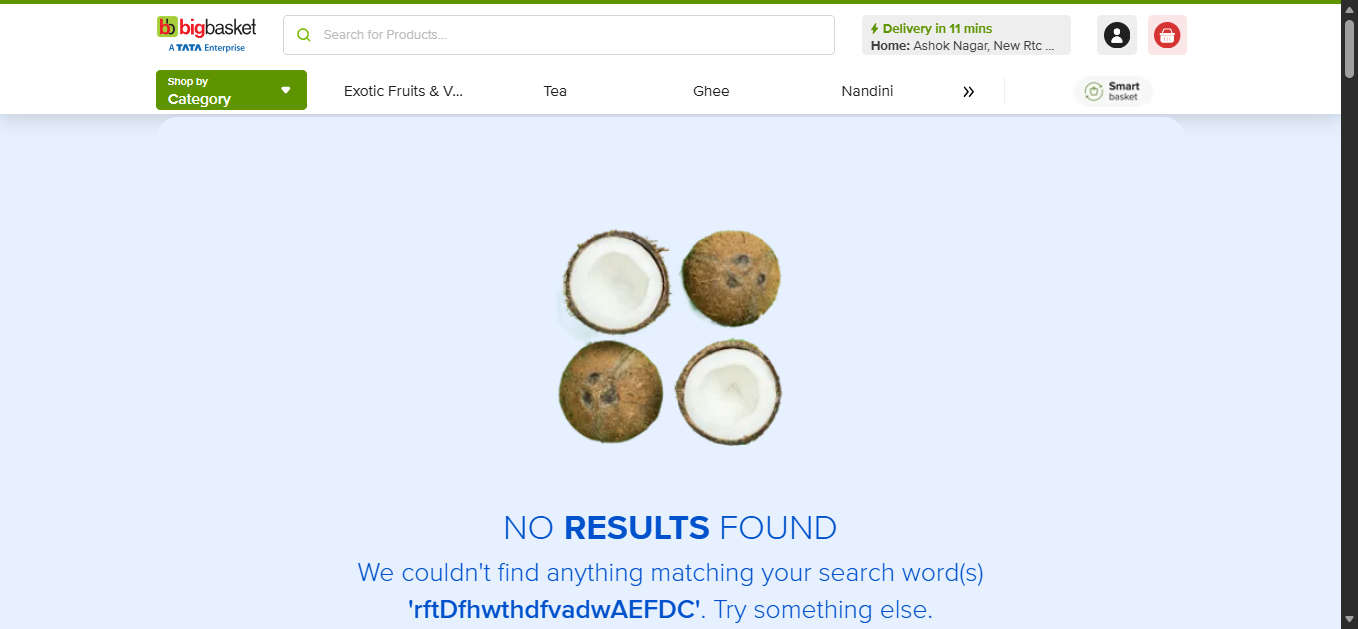
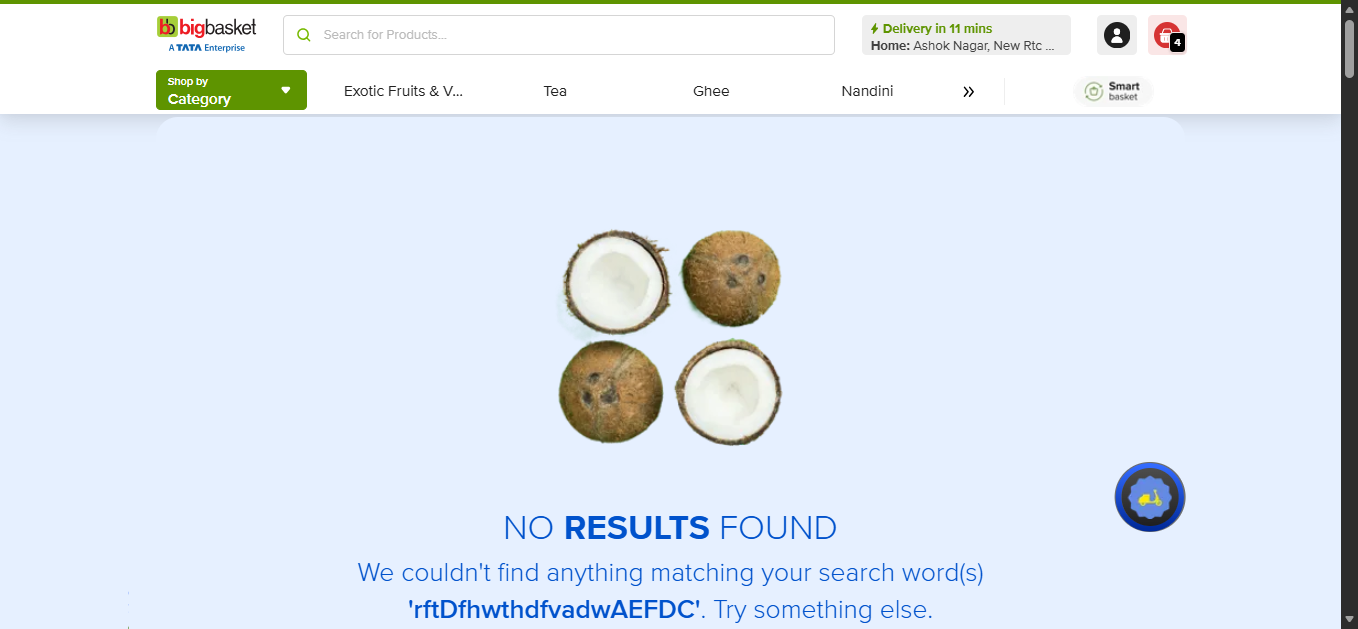
Initial commit

Changed region(s): [[0.8041, 0.725, 0.8969, 0.8458], [0.8351, 0.0604, 0.8969, 0.0906]]

diff --git a/bigB/reports/report.html b/bigB/reports/report.html
@@ -328,7 +328,7 @@ div.media {
   </head>
   <body>
     <h1 id="title">report.html</h1>
-    <p>Report generated on 22-May-2026 at 20:33:04 by <a href="https://pypi.python.org/pypi/pytest-html">pytest-html</a>
+    <p>Report generated on 23-May-2026 at 19:38:58 by <a href="https://pypi.python.org/pypi/pytest-html">pytest-html</a>
         v4.2.0</p>
     <div id="environment-header">
       <h2>Environment</h2>
@@ -383,7 +383,7 @@ div.media {
         <h2>Summary</h2>
         <div class="additional-summary prefix">
         </div>
-        <p class="run-count">7 tests took 00:03:29.</p>
+        <p class="run-count">7 tests took 00:03:11.</p>
         <p class="filter">(Un)check the boxes to filter the results.</p>
         <div class="summary__reload">
           <div class="summary__reload__button hidden" onclick="location.reload()">
@@ -431,7 +431,7 @@ div.media {
       </thead>
     </table>
   <footer>
-    <div id="data-container" data-jsonblob="{&#34;environment&#34;: {&#34;Python&#34;: &#34;3.13.6&#34;, &#34;Platform&#34;: &#34;Windows-11-10.0.26200-SP0&#34;, &#34;Packages&#34;: {&#34;pytest&#34;: &#34;9.0.3&#34;, &#34;pluggy&#34;: &#34;1.6.0&#34;}, &#34;Plugins&#34;: {&#34;allure-pytest&#34;: &#34;2.16.0&#34;, &#34;html&#34;: &#34;4.2.0&#34;, &#34;metadata&#34;: &#34;3.1.1&#34;}, &#34;JAVA_HOME&#34;: &#34;C:\\Users\\sahii\\scoop\\apps\\temurin-lts-jdk\\current&#34;}, &#34;tests&#34;: {&#34;tests/test_negative.py::test_negative_invalid_search[rftDfhwthdfvadwAEFDC]&#34;: [{&#34;extras&#34;: [], &#34;result&#34;: &#34;Passed&#34;, &#34;testId&#34;: &#34;tests/test_negative.py::test_negative_invalid_search[rftDfhwthdfvadwAEFDC]&#34;, &#34;duration&#34;: &#34;00:00:41&#34;, &#34;resultsTableRow&#34;: [&#34;&lt;td class=\&#34;col-result\&#34;&gt;Passed&lt;/td&gt;&#34;, &#34;&lt;td class=\&#34;col-testId\&#34;&gt;tests/test_negative.py::test_negative_invalid_search[rftDfhwthdfvadwAEFDC]&lt;/td&gt;&#34;, &#34;&lt;td class=\&#34;col-duration\&#34;&gt;00:00:41&lt;/td&gt;&#34;, &#34;&lt;td class=\&#34;col-links\&#34;&gt;&lt;/td&gt;&#34;], &#34;log&#34;: &#34;------------------------------ Captured log setup ------------------------------\nINFO     AutomationLogger:test_negative.py:28 === Setting up Edge WebDriver ===\nINFO     AutomationLogger:test_negative.py:42 Edge WebDriver initialized with anti-detection flags\nINFO     AutomationLogger:test_negative.py:44 bigB homepage opened\nINFO     AutomationLogger:test_negative.py:56 === LOGIN START ===\nINFO     AutomationLogger:login_page.py:21 Navigating to bigB\nINFO     AutomationLogger:base_page.py:12 Opening URL: https://www.bigbasket.com/\nINFO     AutomationLogger:base_page.py:15 URL opened: https://www.bigbasket.com/\nINFO     AutomationLogger:login_page.py:27 bigB homepage fully loaded\nINFO     AutomationLogger:login_page.py:47 Entering mobile/email: 9030652433\nINFO     AutomationLogger:login_page.py:54 Mobile/email entered successfully\nINFO     AutomationLogger:login_page.py:59 Clicking Continue button\nINFO     AutomationLogger:login_page.py:64 Continue clicked\nINFO     AutomationLogger:login_page.py:72 Waiting up to 30s for OTP page heading\nINFO     AutomationLogger:login_page.py:78 OTP page detected \u2014 enter OTP manually in browser\nINFO     AutomationLogger:login_page.py:92 Waiting up to 120s for Verify &amp;amp; Continue button\nINFO     AutomationLogger:login_page.py:97 Verify &amp;amp; Continue clickable \u2014 clicking\nINFO     AutomationLogger:login_page.py:100 Verify &amp;amp; Continue clicked\nINFO     AutomationLogger:login_page.py:112 Checking for location popup after login\nINFO     AutomationLogger:login_page.py:119 Location popup dismissed \u2014 clicked &amp;#x27;Got it&amp;#x27;\nINFO     AutomationLogger:test_negative.py:66 === LOGIN SUCCESS ===\n\n------------------------------ Captured log call -------------------------------\nINFO     AutomationLogger:test_negative.py:79 === NEGATIVE TEST (invalid search) START | rftDfhwthdfvadwAEFDC ===\nINFO     AutomationLogger:test_negative.py:83 Searched: rftDfhwthdfvadwAEFDC\nINFO     AutomationLogger:test_negative.py:21 Screenshot saved: screenshots\\NEGATIVE_invalid_search_rftDfhwthdfvadwAEFDC.png\n\n&#34;}], &#34;tests/test_negative.py::test_negative_empty_basket_checkout&#34;: [{&#34;extras&#34;: [], &#34;result&#34;: &#34;Passed&#34;, &#34;testId&#34;: &#34;tests/test_negative.py::test_negative_empty_basket_checkout&#34;, &#34;duration&#34;: &#34;00:00:15&#34;, &#34;resultsTableRow&#34;: [&#34;&lt;td class=\&#34;col-result\&#34;&gt;Passed&lt;/td&gt;&#34;, &#34;&lt;td class=\&#34;col-testId\&#34;&gt;tests/test_negative.py::test_negative_empty_basket_checkout&lt;/td&gt;&#34;, &#34;&lt;td class=\&#34;col-duration\&#34;&gt;00:00:15&lt;/td&gt;&#34;, &#34;&lt;td class=\&#34;col-links\&#34;&gt;&lt;/td&gt;&#34;], &#34;log&#34;: &#34;------------------------------ Captured log call -------------------------------\nINFO     AutomationLogger:test_negative.py:100 === NEGATIVE TEST (empty basket) START ===\nINFO     AutomationLogger:test_negative.py:21 Screenshot saved: screenshots\\NEGATIVE_empty_basket.png\nINFO     AutomationLogger:test_negative.py:112 === NEGATIVE TEST PASSED | Empty basket checkout blocked ===\n\n&#34;}], &#34;tests/test_positive.py::TestPositiveBigBasket::test_search_product[Cricket bat]&#34;: [{&#34;extras&#34;: [], &#34;result&#34;: &#34;Passed&#34;, &#34;testId&#34;: &#34;tests/test_positive.py::TestPositiveBigBasket::test_search_product[Cricket bat]&#34;, &#34;duration&#34;: &#34;00:01:05&#34;, &#34;resultsTableRow&#34;: [&#34;&lt;td class=\&#34;col-result\&#34;&gt;Passed&lt;/td&gt;&#34;, &#34;&lt;td class=\&#34;col-testId\&#34;&gt;tests/test_positive.py::TestPositiveBigBasket::test_search_product[Cricket bat]&lt;/td&gt;&#34;, &#34;&lt;td class=\&#34;col-duration\&#34;&gt;00:01:05&lt;/td&gt;&#34;, &#34;&lt;td class=\&#34;col-links\&#34;&gt;&lt;/td&gt;&#34;], &#34;log&#34;: &#34;------------------------------ Captured log setup ------------------------------\nINFO     AutomationLogger:conftest.py:36 === Setting up Edge WebDriver ===\nINFO     AutomationLogger:conftest.py:51 Edge WebDriver initialized with anti-detection flags\nINFO     AutomationLogger:conftest.py:53 bigB homepage opened\nINFO     AutomationLogger:conftest.py:66 === LOGIN START ===\nINFO     AutomationLogger:login_page.py:21 Navigating to bigB\nINFO     AutomationLogger:base_page.py:12 Opening URL: https://www.bigbasket.com/\nINFO     AutomationLogger:base_page.py:15 URL opened: https://www.bigbasket.com/\nINFO     AutomationLogger:login_page.py:27 bigB homepage fully loaded\nINFO     AutomationLogger:conftest.py:70 BigBasket opened\nINFO     AutomationLogger:conftest.py:75 Login clicked\nINFO     AutomationLogger:login_page.py:47 Entering mobile/email: 9030652433\nINFO     AutomationLogger:login_page.py:54 Mobile/email entered successfully\nINFO     AutomationLogger:conftest.py:83 Mobile entered\nINFO     AutomationLogger:login_page.py:59 Clicking Continue button\nINFO     AutomationLogger:login_page.py:64 Continue clicked\nINFO     AutomationLogger:conftest.py:91 Continue clicked\nINFO     AutomationLogger:login_page.py:72 Waiting up to 30s for OTP page heading\nINFO     AutomationLogger:login_page.py:78 OTP page detected \u2014 enter OTP manually in browser\nINFO     AutomationLogger:conftest.py:99 OTP page confirmed \u2014 enter OTP in browser now\nINFO     AutomationLogger:login_page.py:92 Waiting up to 120s for Verify &amp;amp; Continue button\nINFO     AutomationLogger:login_page.py:97 Verify &amp;amp; Continue clickable \u2014 clicking\nINFO     AutomationLogger:login_page.py:100 Verify &amp;amp; Continue clicked\nINFO     AutomationLogger:conftest.py:104 OTP verified\nINFO     AutomationLogger:login_page.py:112 Checking for location popup after login\nINFO     AutomationLogger:login_page.py:119 Location popup dismissed \u2014 clicked &amp;#x27;Got it&amp;#x27;\nINFO     AutomationLogger:conftest.py:111 Location popup handled\nINFO     AutomationLogger:conftest.py:116 Login confirmed \u2014 search box visible\nINFO     AutomationLogger:conftest.py:121 === LOGIN SUCCESS ===\n\n------------------------------ Captured log call -------------------------------\nINFO     AutomationLogger:test_positive.py:24 === SEARCH TEST START | Cricket bat ===\nINFO     AutomationLogger:test_positive.py:28 Searched: Cricket bat\n\n&#34;}], &#34;tests/test_positive.py::TestPositiveBigBasket::test_add_to_basket[Cricket bat]&#34;: [{&#34;extras&#34;: [], &#34;result&#34;: &#34;Passed&#34;, &#34;testId&#34;: &#34;tests/test_positive.py::TestPositiveBigBasket::test_add_to_basket[Cricket bat]&#34;, &#34;duration&#34;: &#34;00:00:01&#34;, &#34;resultsTableRow&#34;: [&#34;&lt;td class=\&#34;col-result\&#34;&gt;Passed&lt;/td&gt;&#34;, &#34;&lt;td class=\&#34;col-testId\&#34;&gt;tests/test_positive.py::TestPositiveBigBasket::test_add_to_basket[Cricket bat]&lt;/td&gt;&#34;, &#34;&lt;td class=\&#34;col-duration\&#34;&gt;00:00:01&lt;/td&gt;&#34;, &#34;&lt;td class=\&#34;col-links\&#34;&gt;&lt;/td&gt;&#34;], &#34;log&#34;: &#34;------------------------------ Captured log call -------------------------------\nINFO     AutomationLogger:test_positive.py:37 === ADD TEST START | Cricket bat ===\nINFO     AutomationLogger:test_positive.py:42 Product added\n\n&#34;}], &#34;tests/test_positive.py::TestPositiveBigBasket::test_open_basket[Cricket bat]&#34;: [{&#34;extras&#34;: [], &#34;result&#34;: &#34;Passed&#34;, &#34;testId&#34;: &#34;tests/test_positive.py::TestPositiveBigBasket::test_open_basket[Cricket bat]&#34;, &#34;duration&#34;: &#34;00:00:04&#34;, &#34;resultsTableRow&#34;: [&#34;&lt;td class=\&#34;col-result\&#34;&gt;Passed&lt;/td&gt;&#34;, &#34;&lt;td class=\&#34;col-testId\&#34;&gt;tests/test_positive.py::TestPositiveBigBasket::test_open_basket[Cricket bat]&lt;/td&gt;&#34;, &#34;&lt;td class=\&#34;col-duration\&#34;&gt;00:00:04&lt;/td&gt;&#34;, &#34;&lt;td class=\&#34;col-links\&#34;&gt;&lt;/td&gt;&#34;], &#34;log&#34;: &#34;------------------------------ Captured log call -------------------------------\nINFO     AutomationLogger:test_positive.py:51 === OPEN BASKET TEST START | Cricket bat ===\nINFO     AutomationLogger:test_positive.py:57 Basket opened for Cricket bat\n\n&#34;}], &#34;tests/test_positive.py::TestPositiveBigBasket::test_checkout_button_visible[Cricket bat]&#34;: [{&#34;extras&#34;: [], &#34;result&#34;: &#34;Passed&#34;, &#34;testId&#34;: &#34;tests/test_positive.py::TestPositiveBigBasket::test_checkout_button_visible[Cricket bat]&#34;, &#34;duration&#34;: &#34;00:00:07&#34;, &#34;resultsTableRow&#34;: [&#34;&lt;td class=\&#34;col-result\&#34;&gt;Passed&lt;/td&gt;&#34;, &#34;&lt;td class=\&#34;col-testId\&#34;&gt;tests/test_positive.py::TestPositiveBigBasket::test_checkout_button_visible[Cricket bat]&lt;/td&gt;&#34;, &#34;&lt;td class=\&#34;col-duration\&#34;&gt;00:00:07&lt;/td&gt;&#34;, &#34;&lt;td class=\&#34;col-links\&#34;&gt;&lt;/td&gt;&#34;], &#34;log&#34;: &#34;------------------------------ Captured log call -------------------------------\nINFO     AutomationLogger:test_positive.py:66 === CHECKOUT TEST START | Cricket bat ===\nINFO     AutomationLogger:test_positive.py:69 === POSITIVE TEST PASSED | Cricket bat added to basket ===\n\n---------------------------- Captured log teardown -----------------------------\nINFO     AutomationLogger:conftest.py:55 Quitting WebDriver\nINFO     AutomationLogger:conftest.py:58 === WebDriver session closed ===&#34;}], &#34;tests/test_search_and_checkout.py::test_search_and_checkout[9030652433-Amul Butter]&#34;: [{&#34;extras&#34;: [], &#34;result&#34;: &#34;Passed&#34;, &#34;testId&#34;: &#34;tests/test_search_and_checkout.py::test_search_and_checkout[9030652433-Amul Butter]&#34;, &#34;duration&#34;: &#34;00:01:15&#34;, &#34;resultsTableRow&#34;: [&#34;&lt;td class=\&#34;col-result\&#34;&gt;Passed&lt;/td&gt;&#34;, &#34;&lt;td class=\&#34;col-testId\&#34;&gt;tests/test_search_and_checkout.py::test_search_and_checkout[9030652433-Amul Butter]&lt;/td&gt;&#34;, &#34;&lt;td class=\&#34;col-duration\&#34;&gt;00:01:15&lt;/td&gt;&#34;, &#34;&lt;td class=\&#34;col-links\&#34;&gt;&lt;/td&gt;&#34;], &#34;log&#34;: &#34;------------------------------ Captured log setup ------------------------------\nINFO     AutomationLogger:conftest.py:36 === Setting up Edge WebDriver ===\nINFO     AutomationLogger:conftest.py:51 Edge WebDriver initialized with anti-detection flags\nINFO     AutomationLogger:conftest.py:53 bigB homepage opened\n\n------------------------------ Captured log call -------------------------------\nINFO     AutomationLogger:test_search_and_checkout.py:27 === Test START | mobile: 9030652433 | product: Amul Butter ===\nINFO     AutomationLogger:login_page.py:21 Navigating to bigB\nINFO     AutomationLogger:base_page.py:12 Opening URL: https://www.bigbasket.com/\nINFO     AutomationLogger:base_page.py:15 URL opened: https://www.bigbasket.com/\nINFO     AutomationLogger:login_page.py:27 bigB homepage fully loaded\nINFO     AutomationLogger:login_page.py:47 Entering mobile/email: 9030652433\nINFO     AutomationLogger:login_page.py:54 Mobile/email entered successfully\nINFO     AutomationLogger:login_page.py:59 Clicking Continue button\nINFO     AutomationLogger:login_page.py:64 Continue clicked\nINFO     AutomationLogger:login_page.py:72 Waiting up to 30s for OTP page heading\nINFO     AutomationLogger:login_page.py:78 OTP page detected \u2014 enter OTP manually in browser\nINFO     AutomationLogger:login_page.py:92 Waiting up to 120s for Verify &amp;amp; Continue button\nINFO     AutomationLogger:login_page.py:97 Verify &amp;amp; Continue clickable \u2014 clicking\nINFO     AutomationLogger:login_page.py:100 Verify &amp;amp; Continue clicked\nINFO     AutomationLogger:login_page.py:112 Checking for location popup after login\nINFO     AutomationLogger:login_page.py:119 Location popup dismissed \u2014 clicked &amp;#x27;Got it&amp;#x27;\nINFO     AutomationLogger:test_search_and_checkout.py:87 === Test PASSED | mobile: 9030652433 | product: Amul Butter ===\n\n---------------------------- Captured log teardown -----------------------------\nINFO     AutomationLogger:conftest.py:55 Quitting WebDriver\nINFO     AutomationLogger:conftest.py:58 === WebDriver session closed ===\nINFO     AutomationLogger:test_negative.py:46 Quitting WebDriver\nINFO     AutomationLogger:test_negative.py:49 === WebDriver session closed ===&#34;}]}, &#34;renderCollapsed&#34;: [&#34;passed&#34;], &#34;initialSort&#34;: &#34;result&#34;, &#34;title&#34;: &#34;report.html&#34;}"></div>
+    <div id="data-container" data-jsonblob="{&#34;environment&#34;: {&#34;Python&#34;: &#34;3.13.6&#34;, &#34;Platform&#34;: &#34;Windows-11-10.0.26200-SP0&#34;, &#34;Packages&#34;: {&#34;pytest&#34;: &#34;9.0.3&#34;, &#34;pluggy&#34;: &#34;1.6.0&#34;}, &#34;Plugins&#34;: {&#34;allure-pytest&#34;: &#34;2.16.0&#34;, &#34;html&#34;: &#34;4.2.0&#34;, &#34;metadata&#34;: &#34;3.1.1&#34;}, &#34;JAVA_HOME&#34;: &#34;C:\\Users\\sahii\\scoop\\apps\\temurin-lts-jdk\\current&#34;}, &#34;tests&#34;: {&#34;tests/test_negative.py::test_negative_invalid_search[rftDfhwthdfvadwAEFDC]&#34;: [{&#34;extras&#34;: [], &#34;result&#34;: &#34;Passed&#34;, &#34;testId&#34;: &#34;tests/test_negative.py::test_negative_invalid_search[rftDfhwthdfvadwAEFDC]&#34;, &#34;duration&#34;: &#34;00:00:52&#34;, &#34;resultsTableRow&#34;: [&#34;&lt;td class=\&#34;col-result\&#34;&gt;Passed&lt;/td&gt;&#34;, &#34;&lt;td class=\&#34;col-testId\&#34;&gt;tests/test_negative.py::test_negative_invalid_search[rftDfhwthdfvadwAEFDC]&lt;/td&gt;&#34;, &#34;&lt;td class=\&#34;col-duration\&#34;&gt;00:00:52&lt;/td&gt;&#34;, &#34;&lt;td class=\&#34;col-links\&#34;&gt;&lt;/td&gt;&#34;], &#34;log&#34;: &#34;------------------------------ Captured log setup ------------------------------\nINFO     AutomationLogger:test_negative.py:28 === Setting up Edge WebDriver ===\nINFO     AutomationLogger:test_negative.py:42 Edge WebDriver initialized with anti-detection flags\nINFO     AutomationLogger:test_negative.py:44 bigB homepage opened\nINFO     AutomationLogger:test_negative.py:56 === LOGIN START ===\nINFO     AutomationLogger:login_page.py:21 Navigating to bigB\nINFO     AutomationLogger:base_page.py:12 Opening URL: https://www.bigbasket.com/\nINFO     AutomationLogger:base_page.py:15 URL opened: https://www.bigbasket.com/\nINFO     AutomationLogger:login_page.py:27 bigB homepage fully loaded\nINFO     AutomationLogger:login_page.py:47 Entering mobile/email: 9030652433\nINFO     AutomationLogger:login_page.py:54 Mobile/email entered successfully\nINFO     AutomationLogger:login_page.py:59 Clicking Continue button\nINFO     AutomationLogger:login_page.py:64 Continue clicked\nINFO     AutomationLogger:login_page.py:72 Waiting up to 30s for OTP page heading\nINFO     AutomationLogger:login_page.py:78 OTP page detected \u2014 enter OTP manually in browser\nINFO     AutomationLogger:login_page.py:92 Waiting up to 120s for Verify &amp;amp; Continue button\nINFO     AutomationLogger:login_page.py:97 Verify &amp;amp; Continue clickable \u2014 clicking\nINFO     AutomationLogger:login_page.py:100 Verify &amp;amp; Continue clicked\nINFO     AutomationLogger:login_page.py:112 Checking for location popup after login\nINFO     AutomationLogger:login_page.py:119 Location popup dismissed \u2014 clicked &amp;#x27;Got it&amp;#x27;\nINFO     AutomationLogger:test_negative.py:66 === LOGIN SUCCESS ===\n\n------------------------------ Captured log call -------------------------------\nINFO     AutomationLogger:test_negative.py:79 === NEGATIVE TEST (invalid search) START | rftDfhwthdfvadwAEFDC ===\nINFO     AutomationLogger:test_negative.py:83 Searched: rftDfhwthdfvadwAEFDC\nINFO     AutomationLogger:test_negative.py:21 Screenshot saved: screenshots\\NEGATIVE_invalid_search_rftDfhwthdfvadwAEFDC.png\n\n&#34;}], &#34;tests/test_negative.py::test_negative_empty_basket_checkout&#34;: [{&#34;extras&#34;: [], &#34;result&#34;: &#34;Passed&#34;, &#34;testId&#34;: &#34;tests/test_negative.py::test_negative_empty_basket_checkout&#34;, &#34;duration&#34;: &#34;00:00:14&#34;, &#34;resultsTableRow&#34;: [&#34;&lt;td class=\&#34;col-result\&#34;&gt;Passed&lt;/td&gt;&#34;, &#34;&lt;td class=\&#34;col-testId\&#34;&gt;tests/test_negative.py::test_negative_empty_basket_checkout&lt;/td&gt;&#34;, &#34;&lt;td class=\&#34;col-duration\&#34;&gt;00:00:14&lt;/td&gt;&#34;, &#34;&lt;td class=\&#34;col-links\&#34;&gt;&lt;/td&gt;&#34;], &#34;log&#34;: &#34;------------------------------ Captured log call -------------------------------\nINFO     AutomationLogger:test_negative.py:100 === NEGATIVE TEST (empty basket) START ===\nINFO     AutomationLogger:test_negative.py:21 Screenshot saved: screenshots\\NEGATIVE_empty_basket.png\nINFO     AutomationLogger:test_negative.py:112 === NEGATIVE TEST PASSED | Empty basket checkout blocked ===\n\n&#34;}], &#34;tests/test_positive.py::TestPositiveBigBasket::test_search_product[Cricket bat]&#34;: [{&#34;extras&#34;: [], &#34;result&#34;: &#34;Passed&#34;, &#34;testId&#34;: &#34;tests/test_positive.py::TestPositiveBigBasket::test_search_product[Cricket bat]&#34;, &#34;duration&#34;: &#34;00:00:38&#34;, &#34;resultsTableRow&#34;: [&#34;&lt;td class=\&#34;col-result\&#34;&gt;Passed&lt;/td&gt;&#34;, &#34;&lt;td class=\&#34;col-testId\&#34;&gt;tests/test_positive.py::TestPositiveBigBasket::test_search_product[Cricket bat]&lt;/td&gt;&#34;, &#34;&lt;td class=\&#34;col-duration\&#34;&gt;00:00:38&lt;/td&gt;&#34;, &#34;&lt;td class=\&#34;col-links\&#34;&gt;&lt;/td&gt;&#34;], &#34;log&#34;: &#34;------------------------------ Captured log setup ------------------------------\nINFO     AutomationLogger:conftest.py:36 === Setting up Edge WebDriver ===\nINFO     AutomationLogger:conftest.py:51 Edge WebDriver initialized with anti-detection flags\nINFO     AutomationLogger:conftest.py:53 bigB homepage opened\nINFO     AutomationLogger:conftest.py:66 === LOGIN START ===\nINFO     AutomationLogger:login_page.py:21 Navigating to bigB\nINFO     AutomationLogger:base_page.py:12 Opening URL: https://www.bigbasket.com/\nINFO     AutomationLogger:base_page.py:15 URL opened: https://www.bigbasket.com/\nINFO     AutomationLogger:login_page.py:27 bigB homepage fully loaded\nINFO     AutomationLogger:conftest.py:70 BigBasket opened\nINFO     AutomationLogger:conftest.py:75 Login clicked\nINFO     AutomationLogger:login_page.py:47 Entering mobile/email: 9030652433\nINFO     AutomationLogger:login_page.py:54 Mobile/email entered successfully\nINFO     AutomationLogger:conftest.py:83 Mobile entered\nINFO     AutomationLogger:login_page.py:59 Clicking Continue button\nINFO     AutomationLogger:login_page.py:64 Continue clicked\nINFO     AutomationLogger:conftest.py:91 Continue clicked\nINFO     AutomationLogger:login_page.py:72 Waiting up to 30s for OTP page heading\nINFO     AutomationLogger:login_page.py:78 OTP page detected \u2014 enter OTP manually in browser\nINFO     AutomationLogger:conftest.py:99 OTP page confirmed \u2014 enter OTP in browser now\nINFO     AutomationLogger:login_page.py:92 Waiting up to 120s for Verify &amp;amp; Continue button\nINFO     AutomationLogger:login_page.py:97 Verify &amp;amp; Continue clickable \u2014 clicking\nINFO     AutomationLogger:login_page.py:100 Verify &amp;amp; Continue clicked\nINFO     AutomationLogger:conftest.py:104 OTP verified\nINFO     AutomationLogger:login_page.py:112 Checking for location popup after login\nINFO     AutomationLogger:login_page.py:119 Location popup dismissed \u2014 clicked &amp;#x27;Got it&amp;#x27;\nINFO     AutomationLogger:conftest.py:111 Location popup handled\nINFO     AutomationLogger:conftest.py:116 Login confirmed \u2014 search box visible\nINFO     AutomationLogger:conftest.py:121 === LOGIN SUCCESS ===\n\n------------------------------ Captured log call -------------------------------\nINFO     AutomationLogger:test_positive.py:24 === SEARCH TEST START | Cricket bat ===\nINFO     AutomationLogger:test_positive.py:28 Searched: Cricket bat\n\n&#34;}], &#34;tests/test_positive.py::TestPositiveBigBasket::test_add_to_basket[Cricket bat]&#34;: [{&#34;extras&#34;: [], &#34;result&#34;: &#34;Passed&#34;, &#34;testId&#34;: &#34;tests/test_positive.py::TestPositiveBigBasket::test_add_to_basket[Cricket bat]&#34;, &#34;duration&#34;: &#34;00:00:02&#34;, &#34;resultsTableRow&#34;: [&#34;&lt;td class=\&#34;col-result\&#34;&gt;Passed&lt;/td&gt;&#34;, &#34;&lt;td class=\&#34;col-testId\&#34;&gt;tests/test_positive.py::TestPositiveBigBasket::test_add_to_basket[Cricket bat]&lt;/td&gt;&#34;, &#34;&lt;td class=\&#34;col-duration\&#34;&gt;00:00:02&lt;/td&gt;&#34;, &#34;&lt;td class=\&#34;col-links\&#34;&gt;&lt;/td&gt;&#34;], &#34;log&#34;: &#34;------------------------------ Captured log call -------------------------------\nINFO     AutomationLogger:test_positive.py:37 === ADD TEST START | Cricket bat ===\nINFO     AutomationLogger:test_positive.py:42 Product added\n\n&#34;}], &#34;tests/test_positive.py::TestPositiveBigBasket::test_open_basket[Cricket bat]&#34;: [{&#34;extras&#34;: [], &#34;result&#34;: &#34;Passed&#34;, &#34;testId&#34;: &#34;tests/test_positive.py::TestPositiveBigBasket::test_open_basket[Cricket bat]&#34;, &#34;duration&#34;: &#34;00:00:05&#34;, &#34;resultsTableRow&#34;: [&#34;&lt;td class=\&#34;col-result\&#34;&gt;Passed&lt;/td&gt;&#34;, &#34;&lt;td class=\&#34;col-testId\&#34;&gt;tests/test_positive.py::TestPositiveBigBasket::test_open_basket[Cricket bat]&lt;/td&gt;&#34;, &#34;&lt;td class=\&#34;col-duration\&#34;&gt;00:00:05&lt;/td&gt;&#34;, &#34;&lt;td class=\&#34;col-links\&#34;&gt;&lt;/td&gt;&#34;], &#34;log&#34;: &#34;------------------------------ Captured log call -------------------------------\nINFO     AutomationLogger:test_positive.py:51 === OPEN BASKET TEST START | Cricket bat ===\nINFO     AutomationLogger:test_positive.py:57 Basket opened for Cricket bat\n\n&#34;}], &#34;tests/test_positive.py::TestPositiveBigBasket::test_checkout_button_visible[Cricket bat]&#34;: [{&#34;extras&#34;: [], &#34;result&#34;: &#34;Passed&#34;, &#34;testId&#34;: &#34;tests/test_positive.py::TestPositiveBigBasket::test_checkout_button_visible[Cricket bat]&#34;, &#34;duration&#34;: &#34;00:00:07&#34;, &#34;resultsTableRow&#34;: [&#34;&lt;td class=\&#34;col-result\&#34;&gt;Passed&lt;/td&gt;&#34;, &#34;&lt;td class=\&#34;col-testId\&#34;&gt;tests/test_positive.py::TestPositiveBigBasket::test_checkout_button_visible[Cricket bat]&lt;/td&gt;&#34;, &#34;&lt;td class=\&#34;col-duration\&#34;&gt;00:00:07&lt;/td&gt;&#34;, &#34;&lt;td class=\&#34;col-links\&#34;&gt;&lt;/td&gt;&#34;], &#34;log&#34;: &#34;------------------------------ Captured log call -------------------------------\nINFO     AutomationLogger:test_positive.py:66 === CHECKOUT TEST START | Cricket bat ===\nINFO     AutomationLogger:test_positive.py:69 === POSITIVE TEST PASSED | Cricket bat added to basket ===\n\n---------------------------- Captured log teardown -----------------------------\nINFO     AutomationLogger:conftest.py:55 Quitting WebDriver\nINFO     AutomationLogger:conftest.py:58 === WebDriver session closed ===&#34;}], &#34;tests/test_search_and_checkout.py::test_search_and_checkout[9030652433-Amul Butter]&#34;: [{&#34;extras&#34;: [], &#34;result&#34;: &#34;Passed&#34;, &#34;testId&#34;: &#34;tests/test_search_and_checkout.py::test_search_and_checkout[9030652433-Amul Butter]&#34;, &#34;duration&#34;: &#34;00:01:12&#34;, &#34;resultsTableRow&#34;: [&#34;&lt;td class=\&#34;col-result\&#34;&gt;Passed&lt;/td&gt;&#34;, &#34;&lt;td class=\&#34;col-testId\&#34;&gt;tests/test_search_and_checkout.py::test_search_and_checkout[9030652433-Amul Butter]&lt;/td&gt;&#34;, &#34;&lt;td class=\&#34;col-duration\&#34;&gt;00:01:12&lt;/td&gt;&#34;, &#34;&lt;td class=\&#34;col-links\&#34;&gt;&lt;/td&gt;&#34;], &#34;log&#34;: &#34;------------------------------ Captured log setup ------------------------------\nINFO     AutomationLogger:conftest.py:36 === Setting up Edge WebDriver ===\nINFO     AutomationLogger:conftest.py:51 Edge WebDriver initialized with anti-detection flags\nINFO     AutomationLogger:conftest.py:53 bigB homepage opened\n\n------------------------------ Captured log call -------------------------------\nINFO     AutomationLogger:test_search_and_checkout.py:27 === Test START | mobile: 9030652433 | product: Amul Butter ===\nINFO     AutomationLogger:login_page.py:21 Navigating to bigB\nINFO     AutomationLogger:base_page.py:12 Opening URL: https://www.bigbasket.com/\nINFO     AutomationLogger:base_page.py:15 URL opened: https://www.bigbasket.com/\nINFO     AutomationLogger:login_page.py:27 bigB homepage fully loaded\nINFO     AutomationLogger:login_page.py:47 Entering mobile/email: 9030652433\nINFO     AutomationLogger:login_page.py:54 Mobile/email entered successfully\nINFO     AutomationLogger:login_page.py:59 Clicking Continue button\nINFO     AutomationLogger:login_page.py:64 Continue clicked\nINFO     AutomationLogger:login_page.py:72 Waiting up to 30s for OTP page heading\nINFO     AutomationLogger:login_page.py:78 OTP page detected \u2014 enter OTP manually in browser\nINFO     AutomationLogger:login_page.py:92 Waiting up to 120s for Verify &amp;amp; Continue button\nINFO     AutomationLogger:login_page.py:97 Verify &amp;amp; Continue clickable \u2014 clicking\nINFO     AutomationLogger:login_page.py:100 Verify &amp;amp; Continue clicked\nINFO     AutomationLogger:login_page.py:112 Checking for location popup after login\nINFO     AutomationLogger:login_page.py:119 Location popup dismissed \u2014 clicked &amp;#x27;Got it&amp;#x27;\nINFO     AutomationLogger:test_search_and_checkout.py:87 === Test PASSED | mobile: 9030652433 | product: Amul Butter ===\n\n---------------------------- Captured log teardown -----------------------------\nINFO     AutomationLogger:conftest.py:55 Quitting WebDriver\nINFO     AutomationLogger:conftest.py:58 === WebDriver session closed ===\nINFO     AutomationLogger:test_negative.py:46 Quitting WebDriver\nINFO     AutomationLogger:test_negative.py:49 === WebDriver session closed ===&#34;}]}, &#34;renderCollapsed&#34;: [&#34;passed&#34;], &#34;initialSort&#34;: &#34;result&#34;, &#34;title&#34;: &#34;report.html&#34;}"></div>
     <script>
       (function(){function r(e,n,t){function o(i,f){if(!n[i]){if(!e[i]){var c="function"==typeof require&&require;if(!f&&c)return c(i,!0);if(u)return u(i,!0);var a=new Error("Cannot find module '"+i+"'");throw a.code="MODULE_NOT_FOUND",a}var p=n[i]={exports:{}};e[i][0].call(p.exports,function(r){var n=e[i][1][r];return o(n||r)},p,p.exports,r,e,n,t)}return n[i].exports}for(var u="function"==typeof require&&require,i=0;i<t.length;i++)o(t[i]);return o}return r})()({1:[function(require,module,exports){
 const { getCollapsedCategory, setCollapsedIds } = require('./storage.js')